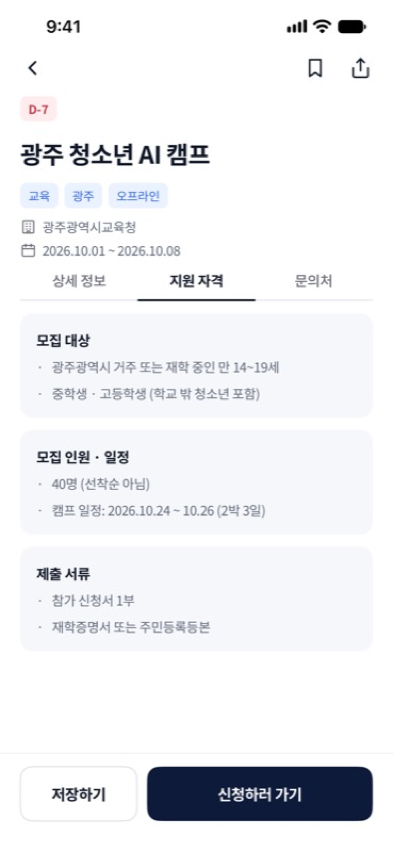
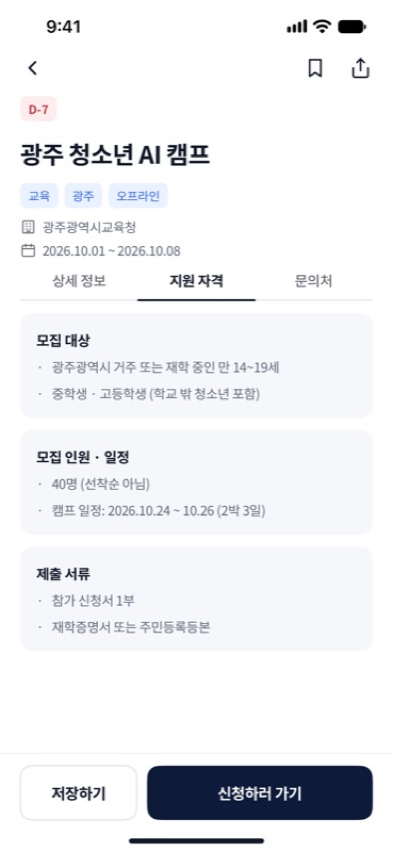
docs: #15 record D2 contact parity and captures
Record D2 as directly compared, update the audit total to 44 of 66, and include 393x852 Figma/app captures. Refresh the D1 app capture with the shared bottom home indicator and document that D2 contact labels are Figma fixture values without live URLs.

Changed region(s): [[0.3359, 0.9765, 0.6718, 1.0], [0.5496, 0.9155, 0.7634, 0.946], [0.1221, 0.9155, 0.2748, 0.946]]

diff --git a/Docs/figma-screen-audit.md b/Docs/figma-screen-audit.md
@@ -40,7 +40,7 @@
 | 34:1596 | C5 정렬 | 393×852 | 수정 후 직접 재대조 완료 · 정렬 시트·선택 라디오·4개 옵션 |
 | 34:1759 | C6 더보기 | 393×852 | 수정 후 직접 재대조 완료 · 액션 시트·Figma SVG·저장/공유/관심 없음 연결 |
 | 35:1487 | D1 상세 · 지원 자격 | 393×852 | 수정 후 직접 재대조 완료 · 지원 자격 탭·모집/일정/서류 카드 |
-| 35:1594 | D2 상세 · 문의처 | 393×852 | 미대조 |
+| 35:1594 | D2 상세 · 문의처 | 393×852 | 수정 후 직접 재대조 완료 · 기관 카드·연락처 4행·하단 홈 인디케이터 |
 | 35:1724 | D3 상세 · 저장 완료 | 393×852 | 미대조 |
 | 35:1836 | D4 외부 사이트 이동 | 393×852 | 미대조 |
 | 35:1933 | D5 공유하기 | 393×852 | 미대조 |
@@ -105,7 +105,7 @@
 - `20:1418 04 A-Path — Dark`: 다크 배경, 상단 제목과 도움말, What-if 카드, 숫자와 +12 배지, 4개 분해 칩, 설명문, 탭, 행동 카드 3개의 위치·너비·타이포그래피를 Figma와 직접 비교했습니다. Figma와 같은 저장 완료 상태가 없는 실행 조건에서 기본 시나리오가 포트폴리오 만들기, 29→41, +12 및 교육 +4/공모전 +3/인턴 +3/지원 +2로 표시됩니다. 캡처를 393×852로 정규화했을 때 본문 시작점·카드·목록 행의 위치 차이는 약 0–2pt이며, Figma의 정적 Dynamic Island는 기기 캡처와 달라 비교에서 제외했습니다. Figma 기준: `Docs/Screenshots/findr-apath-dark-figma-target.png`; 시뮬레이터: `Docs/Screenshots/findr-apath-dark-figma-aligned.jpg`. 시뮬레이터에 포트폴리오 완료 ID가 저장되어 있으면 다음 시나리오(컴퓨터활용능력, 41→49)가 표시될 수 있습니다. 이는 저장 상태에 따른 결과입니다.
 - `33:1279 B4 알림 센터`: 393×852 Figma 프레임과 iPhone 17e 시뮬레이터 캡처를 정규화해 행·그룹 간격·아이콘·읽음 배지·문장 줄바꿈을 직접 비교했습니다. 앱에서 읽은 행도 투명한 6pt 점 영역을 예약해 `이번 주`의 공고 변경 문장이 Figma보다 일찍 줄바꿈되고, 알림 행 높이 차이로 아래 그룹이 밀렸습니다. 읽지 않은 행에만 점을 배치하고 세로 여백을 13pt로 보정해 Figma의 90pt 행 높이와 그룹 위치를 맞췄습니다. 첫 알림 배경 시작점은 Figma y=151·앱 y=152, 두 번째는 양쪽 y=257이며 텍스트 글리프 위치는 대체로 0–3pt 차이입니다. 설정·잠금·시계는 Figma 원본 SVG를 추가했고 뒤로가기·반짝이·편집 SVG는 로컬 에셋이 원본과 바이트 단위로 일치함을 확인했습니다. Figma의 정적 Dynamic Island와 시뮬레이터 상태 표시줄 모양은 비교에서 제외했습니다. Figma 기준: `Docs/Screenshots/findr-notification-center-b4-figma-target.png`; 앱: `Docs/Screenshots/findr-notification-center-b4-figma-aligned.png`.
 - `33:1354 B5 알림 센터 · 비어 있음`: 393×852 Figma 프레임과 실제 앱의 빈 알림 상태를 비교했습니다. 앱은 벨 원형과 안내 문구가 아래로 약 11–12pt 내려가 있었고 제목과 설명 간격이 Figma보다 좁았습니다. Figma의 32pt 2색 벨 SVG를 원본 렌더링으로 추가하고, 아이콘·제목·설명 사이 12pt 간격 및 본문 세로 배치를 맞췄습니다. 재캡처에서 벨 배경 원은 y=348로 맞고 제목 글리프는 Figma y=437·앱 y=438, 설명은 Figma y=471·앱 y=474입니다. 기준: `Docs/Screenshots/findr-notification-empty-b5-figma-target.png`; 앱: `Docs/Screenshots/findr-notification-empty-b5-figma-aligned.png`. 정적 Dynamic Island와 실제 기기 상태 표시줄은 비교에서 제외했습니다.
-- 직접 대조 완료로 기록한 화면은 `2:3 Home`, `20:1117 Home — Dark`, `20:1200 Explore — Dark`, `20:1338 Opportunity Detail — Dark`, `20:1418 A-Path — Dark`, `20:1524 Saved — Dark`, `20:1632 MY — Dark`, `20:1727 Opportunity Detail (Missing) — Dark`, `30:614 A1 Splash`, `30:628 A2 Onboarding 1`, `30:659 A3 Onboarding 2`, `30:690 A4 Onboarding 3`, `30:721 A5 Login`, `31:672 A6 Profile 1`, `31:719 A7 Profile 2`, `31:771 A8 Profile 3`, `31:830 A9 Profile 4`, `31:881 A10 Analyzing`, `31:916 A11 Result`, `31:954 A12 Notification Permission`, `33:845 B1 Home · 거의 가능`, `33:960 B2 Home · 마감 임박`, `33:1129 B3 오늘의 추천 전체보기`, `33:1279 B4 알림 센터`, `33:1354 B5 알림 센터 · 비어 있음`, `34:1186 C1 검색`, `34:1250 C2 검색 결과`, `34:1368 C3 검색 결과 없음`, `34:1398 C4 필터`, `34:1596 C5 정렬`, `34:1759 C6 더보기`, `35:1487 D1 상세 · 지원 자격`, `3:3 Explore`, `3:424 A-Path`, `3:558 Saved`, `3:204 Opportunity Detail`, `3:310 Opportunity Detail (Missing)`, `3:716 MY`, G2, G3, G4, G6, G10 마흔세 개입니다. 총 66개 중 23개는 아직 Figma와 대조하지 않았으며, 나머지 다크 화면과 상태 프레임도 별도로 대조해야 합니다.
+- 직접 대조 완료로 기록한 화면은 `2:3 Home`, `20:1117 Home — Dark`, `20:1200 Explore — Dark`, `20:1338 Opportunity Detail — Dark`, `20:1418 A-Path — Dark`, `20:1524 Saved — Dark`, `20:1632 MY — Dark`, `20:1727 Opportunity Detail (Missing) — Dark`, `30:614 A1 Splash`, `30:628 A2 Onboarding 1`, `30:659 A3 Onboarding 2`, `30:690 A4 Onboarding 3`, `30:721 A5 Login`, `31:672 A6 Profile 1`, `31:719 A7 Profile 2`, `31:771 A8 Profile 3`, `31:830 A9 Profile 4`, `31:881 A10 Analyzing`, `31:916 A11 Result`, `31:954 A12 Notification Permission`, `33:845 B1 Home · 거의 가능`, `33:960 B2 Home · 마감 임박`, `33:1129 B3 오늘의 추천 전체보기`, `33:1279 B4 알림 센터`, `33:1354 B5 알림 센터 · 비어 있음`, `34:1186 C1 검색`, `34:1250 C2 검색 결과`, `34:1368 C3 검색 결과 없음`, `34:1398 C4 필터`, `34:1596 C5 정렬`, `34:1759 C6 더보기`, `35:1487 D1 상세 · 지원 자격`, `35:1594 D2 상세 · 문의처`, `3:3 Explore`, `3:424 A-Path`, `3:558 Saved`, `3:204 Opportunity Detail`, `3:310 Opportunity Detail (Missing)`, `3:716 MY`, G2, G3, G4, G6, G10 마흔네 개입니다. 총 66개 중 22개는 아직 Figma와 대조하지 않았으며, 나머지 다크 화면과 상태 프레임도 별도로 대조해야 합니다.
 
 ## 화면별 완료 기록
 
@@ -130,4 +130,5 @@
 - `34:1398 C4 필터`: Explore의 네 필터 메뉴를 공통 하단 시트로 바꾸고, 지역·대상·마감일·진행 방식 선택과 닫기·초기화·결과 보기를 연결했습니다. Figma 초기 선택(광주·고등학생·7일 이내·진행 방식 전체)과 `48개 결과 보기`를 반영했습니다. 캡처를 393×852로 정규화해 시트 시작점(y=383), 네 필터 행, 버튼과 홈 인디케이터를 대조했으며 주요 경계는 약 0–3pt 차이입니다. Figma C4 배경의 Explore 콘텐츠와 맞추기 위해 상단 여백을 30pt로 조정했습니다. 기기 상태 표시줄/Dynamic Island 표현은 비교에서 제외했습니다. Figma 기준: `Docs/Screenshots/findr-explore-filter-c4-figma-target.png`; 앱: `Docs/Screenshots/findr-explore-filter-c4-figma-aligned.png`.
 - `34:1596 C5 정렬`: Explore의 정렬 버튼을 Figma 하단 시트로 연결하고 추천순·마감 임박순·최신순·조건 충족순의 4개 라디오 행과 닫기 동작을 구현했습니다. 선택 라디오 SVG는 기존 프로필 선택 행의 Figma 원본을 재사용했습니다. 시트 상단 y=497, 높이 355pt, 행 너비 353pt·높이 56/57pt와 간격 8pt를 비교했으며 주요 경계 차이는 약 0–2pt입니다. 마감 임박순은 남은 일수 오름차순, 조건 충족순은 진행률 내림차순입니다. 현재 `Opportunity` 샘플에는 게시 시각 필드가 없어 최신순 미리보기는 샘플 배열 역순으로 동작하며, 실제 게시일 기준 정렬은 서버 날짜 필드가 정해진 뒤 확인해야 합니다. 기기 상태 표시줄/Dynamic Island 표현은 비교에서 제외했습니다. Figma 기준: `Docs/Screenshots/findr-explore-sort-c5-figma-target.png`; 앱: `Docs/Screenshots/findr-explore-sort-c5-figma-aligned.png`.
 - `34:1759 C6 더보기`: Figma의 더보기 시트를 Explore 첫 행과 연결했습니다. 원본 SVG 저장·공유·관심 없음·신고 아이콘과 22pt 아이콘, 15pt Medium 텍스트, 54pt 행·16pt 간격을 적용했습니다. 393×852 프레임으로 정규화한 직접 캡처에서 시트 상단은 Figma와 앱 모두 y=498, 높이는 354pt이며 첫 기회 타일은 y=375입니다. 저장은 이미 저장된 항목에도 중복 없이 추가하고, 공유는 기존 상세 화면과 같은 `ShareLink`로 열리며, 관심 없음은 앱 기기에 저장해 탐색 목록에서 숨깁니다. 신고 접수 API/화면은 저장소에 없어 누르면 미연결 상태를 명확히 안내합니다. 시뮬레이터의 상태 표시줄·Dynamic Island 표현은 Figma 정적 프레임과 달라 비교에서 제외했습니다. Figma 기준: `Docs/Screenshots/findr-explore-actions-c6-figma-target.png`; 앱: `Docs/Screenshots/findr-explore-actions-c6-figma-aligned.png`.
-- `35:1487 D1 상세 · 지원 자격`: Figma에 있던 모집 대상·모집 인원/일정·제출 서류 카드가 앱에서 빠져 있어 해당 샘플의 지원 자격 탭에 세 카드를 추가했습니다. 카드 배경 `#F6F7FB`, 모서리 12pt, 내부 여백 16pt, 카드 간격 12pt, 제목 14pt Bold, 항목 13pt Regular를 맞췄습니다. Figma와 정규화한 앱 캡처에서 첫 카드 시작은 y=314로 같고, 다음 카드와 세 번째 카드 시작은 약 1–2pt 차이입니다. 하단 저장/신청 영역도 위치가 맞습니다. Figma는 저장 전 상태지만 기본 앱 샘플은 Gwangju AI Camp를 저장하므로, 비교용 캡처에서만 해당 저장 ID를 제외했습니다. Figma 기준: `Docs/Screenshots/findr-detail-d1-eligibility-figma-target.png`; 앱: `Docs/Screenshots/findr-detail-d1-eligibility-figma-aligned.png`.
+- `35:1487 D1 상세 · 지원 자격`: Figma에 있던 모집 대상·모집 인원/일정·제출 서류 카드가 앱에서 빠져 있어 해당 샘플의 지원 자격 탭에 세 카드를 추가했습니다. 카드 배경 `#F6F7FB`, 모서리 12pt, 내부 여백 16pt, 카드 간격 12pt, 제목 14pt Bold, 항목 13pt Regular를 맞췄습니다. Figma와 정규화한 앱 캡처에서 첫 카드 시작은 y=314로 같고, 다음 카드와 세 번째 카드 시작은 약 1–2pt 차이입니다. 하단 저장/신청 버튼과 홈 인디케이터 위치도 맞습니다. Figma는 저장 전 상태지만 기본 앱 샘플은 Gwangju AI Camp를 저장하므로, 비교용 캡처에서만 해당 저장 ID를 제외했습니다. Figma 기준: `Docs/Screenshots/findr-detail-d1-eligibility-figma-target.png`; 앱: `Docs/Screenshots/findr-detail-d1-eligibility-figma-aligned.png`.
+- `35:1594 D2 상세 · 문의처`: 기존 앱의 일반 안내 문구를 Figma의 기관 정보 카드와 전화·이메일·홈페이지·원문 공고 4행으로 교체했습니다. Figma 원본 아이콘을 추가하고 기관 카드는 y=324, 연락처 목록은 y=414에서 시작하도록 탭 간격을 조정했습니다. 목록 행은 44pt이며 하단 저장/신청 영역과 홈 인디케이터도 Figma에 맞췄습니다. Figma 기준: `Docs/Screenshots/findr-detail-d2-contact-figma-target.png`; 앱: `Docs/Screenshots/findr-detail-d2-contact-figma-aligned.png`. 앱 기본 샘플은 Gwangju AI Camp를 저장하므로 비교 캡처에서만 저장 ID를 제외했습니다. 연락처 문자열은 Figma 예시이며 현재 저장소에는 실제 연락처 URL/API 값이 없습니다. 행을 누르면 실제 연락처 링크가 아직 연결되지 않았음을 안내합니다.
